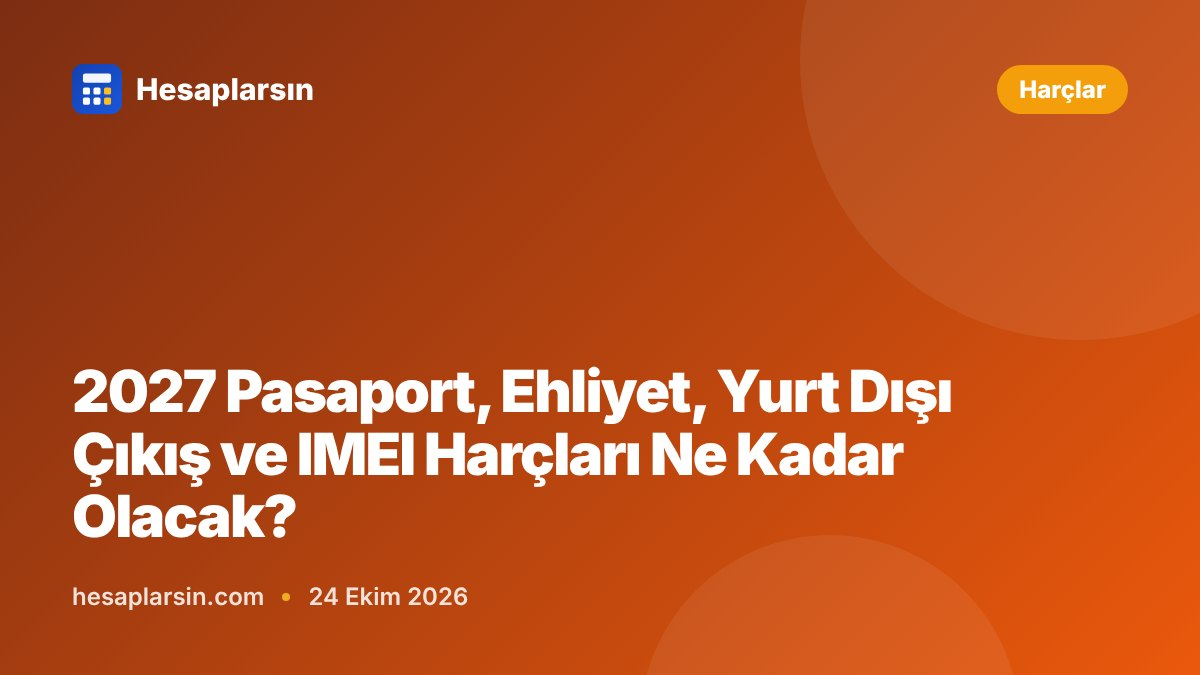
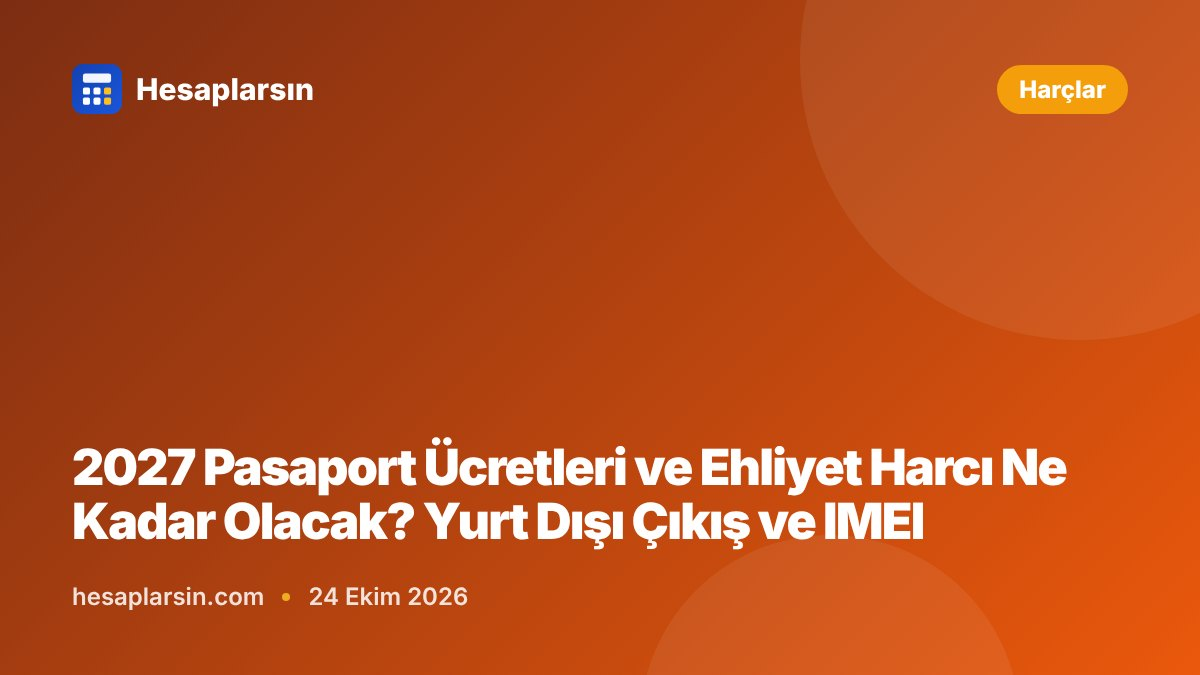
Pasaport 2027 başlık/açıklama CTR odaklı; asgari ödeme: borç tablosu, banka bölümü, 2 SSS, BSMV örnek düzeltmesi
Claude-Session: https://claude.ai/code/session_014PFzT8PKqmvZPFyis9sZvQ

Changed region(s): [[0.0617, 0.5289, 0.8942, 0.8089]]

diff --git a/kredi-karti-asgari-odeme-hesaplama.html b/kredi-karti-asgari-odeme-hesaplama.html
@@ -3,14 +3,14 @@
 <head>
   <meta charset="UTF-8" />
   <meta name="viewport" content="width=device-width, initial-scale=1.0, maximum-scale=5.0" />
-  <title>Kredi Kartı Asgari Ödeme Hesaplama 2026 | Hesaplarsın</title>
-  <meta name="description" content="Dönem borcunuzun asgari ödeme tutarını, akdi ve gecikme faizini hesaplayın. TCMB güncel azami oranları ve borç bitirme süresi." />
+  <title>Kredi Kartı Asgari Ödeme Hesaplama 2026 – Asgari Borç Tutarı | Hesaplarsın</title>
+  <meta name="description" content="Asgari ödeme hesaplama: limiti 100.000 TL’ye kadar kartlarda borcun %20’si, üzerinde %40’ı. 10.000 TL borçta asgari 2.000 TL. Faiz ve borç bitirme süresi." />
   <meta name="keywords" content="kredi kartı asgari ödeme hesaplama 2026, kredi kartı asgari ödeme, kredi kartı faiz hesaplama, kredi kartı gecikme faizi hesaplama, asgari ödeme tutarı hesaplama, kredi kartı akdi faiz, BDDK asgari ödeme oranı 2026, kredi kartı borç hesaplama, minimum ödeme hesaplama" />
   <link rel="canonical" href="https://hesaplarsin.com/kredi-karti-asgari-odeme-hesaplama.html" />
   <meta name="robots" content="index, follow, max-image-preview:large, max-snippet:-1" />
   <meta name="author" content="Hesaplarsın" />
-  <meta property="og:title" content="Kredi Kartı Asgari Ödeme Hesaplama 2026" />
-  <meta property="og:description" content="Dönem borcunuzun asgari ödeme tutarını, akdi ve gecikme faizini hesaplayın. TCMB güncel azami oranları ve borç bitirme süresi." />
+  <meta property="og:title" content="Kredi Kartı Asgari Ödeme Hesaplama 2026 – Asgari Borç Tutarı" />
+  <meta property="og:description" content="Asgari ödeme hesaplama: limiti 100.000 TL’ye kadar kartlarda borcun %20’si, üzerinde %40’ı. 10.000 TL borçta asgari 2.000 TL. Faiz ve borç bitirme süresi." />
   <meta property="og:url" content="https://hesaplarsin.com/kredi-karti-asgari-odeme-hesaplama.html" />
   <meta property="og:type" content="website" />
   <meta property="og:locale" content="tr_TR" />
@@ -20,7 +20,7 @@
   <script>window.dataLayer=window.dataLayer||[];function gtag(){dataLayer.push(arguments);}gtag('consent','default',{ad_storage:'denied',ad_user_data:'denied',ad_personalization:'denied',analytics_storage:'denied',region:['AT','BE','BG','HR','CY','CZ','DK','EE','FI','FR','DE','GR','HU','IS','IE','IT','LV','LI','LT','LU','MT','NL','NO','PL','PT','RO','SK','SI','ES','SE','GB','CH'],wait_for_update:500});gtag('consent','default',{ad_storage:'granted',ad_user_data:'granted',ad_personalization:'granted',analytics_storage:'granted'});gtag('js',new Date());gtag('config','G-FT582GF9N9');</script>
 
   <script type="application/ld+json">{"@context": "https://schema.org", "@type": "WebApplication", "name": "Kredi Kartı Asgari Ödeme Hesaplama 2026", "url": "https://hesaplarsin.com/kredi-karti-asgari-odeme-hesaplama.html", "description": "BDDK 2026 güncel oranlarıyla kredi kartı asgari ödeme tutarı, akdi faiz, gecikme faizi ve BSMV/KKDF vergi hesaplama aracı.", "applicationCategory": "FinanceApplication", "operatingSystem": "All", "inLanguage": "tr", "offers": {"@type": "Offer", "price": "0", "priceCurrency": "TRY"}, "publisher": {"@type": "Organization", "name": "Hesaplarsın", "url": "https://hesaplarsin.com"}, "dateModified": "2026-10-24", "author": {"@type": "Person", "name": "Duran Gönülalan", "url": "https://hesaplarsin.com/hakkimizda.html"}}</script>
-  <script type="application/ld+json">{"@context": "https://schema.org", "@type": "FAQPage", "mainEntity": [{"@type": "Question", "name": "Kredi kartı borcumu yapılandırabilir miyim?", "acceptedAnswer": {"@type": "Answer", "text": "Evet. Ödeme güçlüğü çeken kart kullanıcıları bankayla iletişime geçerek 48 aya varan yapılandırma imkanlarını değerlendirebilir. BDDK desteğiyle hayata geçirilen kredi kartı yapılandırması, birikmiş borcu daha düşük faiz oranıyla taksitlere böler. Yeniden yapılandırma kredi notunu geçici olarak etkileyebilir ancak uzun vadede daha sürdürülebilir bir ödeme planı sunar."}}, {"@type": "Question", "name": "BSMV ve KKDF nedir? Faizin neresinden kesilir?", "acceptedAnswer": {"@type": "Answer", "text": "Bireysel kredi kartı faizlerine BSMV (Banka ve Sigorta Muameleleri Vergisi) %15, KKDF (Kaynak Kullanımı Destekleme Fonu) %15 oranında uygulanır; yani her 100 TL faize 30 TL vergi eklenir. Bu vergiler faiz tutarının üzerine eklenerek bankalar tarafından devlet adına tahsil edilir. Örneğin 1.000 TL faize 60 TL vergi eklenerek 1.060 TL toplam maliyet oluşur. Hem akdi faizde hem gecikme faizinde bu vergiler uygulanır."}}, {"@type": "Question", "name": "Kredi kartı ekstresinin son ödeme tarihi ne zaman?", "acceptedAnswer": {"@type": "Answer", "text": "Son ödeme tarihi, kart kesim tarihinden genellikle 10-12 gün sonrasıdır. Bankanın belirlediği kesim tarihinde bir önceki dönemin tüm harcamaları toplanarak ekstre oluşturulur ve son ödeme tarihi bildirilir. Bu tarihe kadar en az asgari ödeme tutarı yapılmalıdır."}}, {"@type": "Question", "name": "Kredi kartı borcumu tam ödemek yerine neden asgari ödeme yapayım?", "acceptedAnswer": {"@type": "Answer", "text": "Asgari ödemenin tek avantajı nakit sıkışıklığı döneminde minimum ödemeyle kart kullanımına devam etmenizi sağlamasıdır. Ancak uzun vadede her zaman tam ödeme tercih edilmelidir. Asgari ödeme yapıldığında kalan borca aylık %3,25–4,25 faiz ve bunun üzerine %30 vergi işler; bu da vergiler dahil yıllık yaklaşık %64–91 bileşik maliyete karşılık gelir."}}, {"@type": "Question", "name": "Kredi kartı asgari ödeme nasıl hesaplanır? 2026 oranları nedir?", "acceptedAnswer": {"@type": "Answer", "text": "2026 yılında BDDK kararıyla kredi kartı asgari ödeme oranları kart limitine göre belirlenmektedir: 1 Ekim 2026’dan itibaren limiti 100.000 TL ve altındaki kartlarda dönem borcunun %20’si, limiti 100.000 TL üzerindeki kartlarda ise %40’ı asgari ödeme tutarıdır. Örnek: 10.000 TL dönem borcu ve 30.000 TL limiti olan bir kart için asgari ödeme = 10.000 × 0,20 = 2.000 TL'dir."}}, {"@type": "Question", "name": "Kredi kartı asgari ödeme yaparsam faiz işler mi?", "acceptedAnswer": {"@type": "Answer", "text": "Evet. Asgari ödemeyi yaptığınızda kart kullanımına devam edebilirsiniz ve kredi notunuz olumsuz etkilenmez. Ancak kalan borcunuza akdi faiz işlemeye devam eder. 2026 TCMB güncel akdi faiz oranları: 30.000 TL altı için aylık %3,25, 30.000-180.000 TL arası için %3,75, 180.000 TL üzeri için %4,25'tir. Bu faizin üzerine %15 BSMV ve %15 KKDF eklenir."}}, {"@type": "Question", "name": "Kredi kartı asgari ödemeyi yapmazsam ne olur?", "acceptedAnswer": {"@type": "Answer", "text": "Asgari ödemeyi yapmazsanız: 1) Gecikme faizi işler (2026: 30K altı %3,55, 30K-180K arası %4,05, 180K+ için %4,55 aylık), 2) Kredi notunuz düşer ve KKB/Findeks sicilinde olumsuz kayıt oluşur, 3) 1 yılda 3 kez gecikme olursa kartın nakit kullanımı kapatılır, 4) Üst üste 3 kez ödeme yapılmazsa kart tamamen kapatılır."}}, {"@type": "Question", "name": "Sadece asgari ödeme yaparak borcumu ne zaman kapatırım?", "acceptedAnswer": {"@type": "Answer", "text": "Yalnızca asgari ödeme yapıldığında borç çok yavaş azalır ve faiz birikimi nedeniyle yıllar sürebilir. Örneğin 20.000 TL borcu aylık %3,75 akdi faizle sadece asgari ödemeyle kapatmak, harcama yapılmasa bile borcun 100 TL’nin altına inmesi yaklaşık 31 ay sürer ve toplam yaklaşık 24.800 TL ödenir."}}, {"@type": "Question", "name": "Akdi faiz ile gecikme faizi arasındaki fark nedir?", "acceptedAnswer": {"@type": "Answer", "text": "Akdi faiz: Asgari ödemeyi yaptığınızda kalan borca uygulanan standart faizdir. Gecikme faizi: Asgari ödemeyi bile yapmadığınızda uygulanan daha yüksek ceza faizdir. 2026'da gecikme faizi, akdi faizden yaklaşık 0,30 puan daha yüksektir. Her iki faize de %15 BSMV + %15 KKDF eklenir."}}]}</script>
+  <script type="application/ld+json">{"@context": "https://schema.org", "@type": "FAQPage", "mainEntity": [{"@type": "Question", "name": "Akbank, Garanti veya İş Bankası asgari ödeme oranı kaç?", "acceptedAnswer": {"@type": "Answer", "text": "Asgari ödeme oranı BDDK tarafından tüm bankalar için aynı belirlenir. Hangi bankanın kartı olursa olsun, limiti 100.000 TL ve altındaki kartlarda dönem borcunun %20’si, limiti 100.000 TL’nin üzerindeki kartlarda %40’ı asgari ödeme tutarıdır."}}, {"@type": "Question", "name": "6.000 TL borcun asgarisi ne kadar?", "acceptedAnswer": {"@type": "Answer", "text": "Kart limitiniz 100.000 TL ve altındaysa 6.000 TL dönem borcunun asgari ödemesi 6.000 × 0,20 = 1.200 TL’dir. Limitiniz 100.000 TL’nin üzerindeyse asgari ödeme 6.000 × 0,40 = 2.400 TL olur."}}, {"@type": "Question", "name": "Kredi kartı borcumu yapılandırabilir miyim?", "acceptedAnswer": {"@type": "Answer", "text": "Evet. Ödeme güçlüğü çeken kart kullanıcıları bankayla iletişime geçerek 48 aya varan yapılandırma imkanlarını değerlendirebilir. BDDK desteğiyle hayata geçirilen kredi kartı yapılandırması, birikmiş borcu daha düşük faiz oranıyla taksitlere böler. Yeniden yapılandırma kredi notunu geçici olarak etkileyebilir ancak uzun vadede daha sürdürülebilir bir ödeme planı sunar."}}, {"@type": "Question", "name": "BSMV ve KKDF nedir? Faizin neresinden kesilir?", "acceptedAnswer": {"@type": "Answer", "text": "Bireysel kredi kartı faizlerine BSMV (Banka ve Sigorta Muameleleri Vergisi) %15, KKDF (Kaynak Kullanımı Destekleme Fonu) %15 oranında uygulanır; yani her 100 TL faize 30 TL vergi eklenir. Bu vergiler faiz tutarının üzerine eklenerek bankalar tarafından devlet adına tahsil edilir. Örneğin 1.000 TL faize 300 TL vergi eklenerek 1.300 TL toplam maliyet oluşur. Hem akdi faizde hem gecikme faizinde bu vergiler uygulanır."}}, {"@type": "Question", "name": "Kredi kartı ekstresinin son ödeme tarihi ne zaman?", "acceptedAnswer": {"@type": "Answer", "text": "Son ödeme tarihi, kart kesim tarihinden genellikle 10-12 gün sonrasıdır. Bankanın belirlediği kesim tarihinde bir önceki dönemin tüm harcamaları toplanarak ekstre oluşturulur ve son ödeme tarihi bildirilir. Bu tarihe kadar en az asgari ödeme tutarı yapılmalıdır."}}, {"@type": "Question", "name": "Kredi kartı borcumu tam ödemek yerine neden asgari ödeme yapayım?", "acceptedAnswer": {"@type": "Answer", "text": "Asgari ödemenin tek avantajı nakit sıkışıklığı döneminde minimum ödemeyle kart kullanımına devam etmenizi sağlamasıdır. Ancak uzun vadede her zaman tam ödeme tercih edilmelidir. Asgari ödeme yapıldığında kalan borca aylık %3,25–4,25 faiz ve bunun üzerine %30 vergi işler; bu da vergiler dahil yıllık yaklaşık %64–91 bileşik maliyete karşılık gelir."}}, {"@type": "Question", "name": "Kredi kartı asgari ödeme nasıl hesaplanır? 2026 oranları nedir?", "acceptedAnswer": {"@type": "Answer", "text": "2026 yılında BDDK kararıyla kredi kartı asgari ödeme oranları kart limitine göre belirlenmektedir: 1 Ekim 2026’dan itibaren limiti 100.000 TL ve altındaki kartlarda dönem borcunun %20’si, limiti 100.000 TL üzerindeki kartlarda ise %40’ı asgari ödeme tutarıdır. Örnek: 10.000 TL dönem borcu ve 30.000 TL limiti olan bir kart için asgari ödeme = 10.000 × 0,20 = 2.000 TL'dir."}}, {"@type": "Question", "name": "Kredi kartı asgari ödeme yaparsam faiz işler mi?", "acceptedAnswer": {"@type": "Answer", "text": "Evet. Asgari ödemeyi yaptığınızda kart kullanımına devam edebilirsiniz ve kredi notunuz olumsuz etkilenmez. Ancak kalan borcunuza akdi faiz işlemeye devam eder. 2026 TCMB güncel akdi faiz oranları: 30.000 TL altı için aylık %3,25, 30.000-180.000 TL arası için %3,75, 180.000 TL üzeri için %4,25'tir. Bu faizin üzerine %15 BSMV ve %15 KKDF eklenir."}}, {"@type": "Question", "name": "Kredi kartı asgari ödemeyi yapmazsam ne olur?", "acceptedAnswer": {"@type": "Answer", "text": "Asgari ödemeyi yapmazsanız: 1) Gecikme faizi işler (2026: 30K altı %3,55, 30K-180K arası %4,05, 180K+ için %4,55 aylık), 2) Kredi notunuz düşer ve KKB/Findeks sicilinde olumsuz kayıt oluşur, 3) 1 yılda 3 kez gecikme olursa kartın nakit kullanımı kapatılır, 4) Üst üste 3 kez ödeme yapılmazsa kart tamamen kapatılır."}}, {"@type": "Question", "name": "Sadece asgari ödeme yaparak borcumu ne zaman kapatırım?", "acceptedAnswer": {"@type": "Answer", "text": "Yalnızca asgari ödeme yapıldığında borç çok yavaş azalır ve faiz birikimi nedeniyle yıllar sürebilir. Örneğin 20.000 TL borcu aylık %3,75 akdi faizle sadece asgari ödemeyle kapatmak, harcama yapılmasa bile borcun 100 TL’nin altına inmesi yaklaşık 31 ay sürer ve toplam yaklaşık 24.800 TL ödenir."}}, {"@type": "Question", "name": "Akdi faiz ile gecikme faizi arasındaki fark nedir?", "acceptedAnswer": {"@type": "Answer", "text": "Akdi faiz: Asgari ödemeyi yaptığınızda kalan borca uygulanan standart faizdir. Gecikme faizi: Asgari ödemeyi bile yapmadığınızda uygulanan daha yüksek ceza faizdir. 2026'da gecikme faizi, akdi faizden yaklaşık 0,30 puan daha yüksektir. Her iki faize de %15 BSMV + %15 KKDF eklenir."}}]}</script>
   <script type="application/ld+json">
   {"@context":"https://schema.org","@type":"BreadcrumbList","itemListElement":[{"@type":"ListItem","position":1,"name":"Ana Sayfa","item":"https://hesaplarsin.com"},{"@type":"ListItem","position":2,"name":"Finans","item":"https://hesaplarsin.com/#finans"},{"@type":"ListItem","position":3,"name":"Kredi Kartı Asgari Ödeme","item":"https://hesaplarsin.com/kredi-karti-asgari-odeme-hesaplama.html"}]}
   </script>
@@ -588,6 +588,19 @@ footer.hz-foot a:hover{color:#fff!important}
     </table>
   </div>
   
+  <h2>Asgari Borç Hesaplama Tablosu</h2>
+  <p>Asgari ödeme tutarı dönem borcunun kart limitine göre %20’si ya da %40’ıdır. Aşağıdaki tabloda sık sorulan borç tutarlarının asgari ödemesini görebilirsiniz. Örneğin limiti 100.000 TL’nin altındaki bir kartta 6.000 TL borcun asgarisi <strong>1.200 TL</strong>, 25.000 TL borcun asgarisi <strong>5.000 TL</strong>’dir.</p>
+  <div class="tablo-wrap">
+    <table class="veri-tablo" aria-label="Borç tutarına göre asgari ödeme tablosu">
+      <thead><tr><th>Dönem borcu</th><th>Asgari ödeme (limit ≤ 100.000 TL, %20)</th><th>Asgari ödeme (limit &gt; 100.000 TL, %40)</th></tr></thead>
+      <tbody><tr><td>5.000 TL</td><td>1.000 TL</td><td>2.000 TL</td></tr><tr><td>6.000 TL</td><td>1.200 TL</td><td>2.400 TL</td></tr><tr><td>10.000 TL</td><td>2.000 TL</td><td>4.000 TL</td></tr><tr><td>15.000 TL</td><td>3.000 TL</td><td>6.000 TL</td></tr><tr><td>20.000 TL</td><td>4.000 TL</td><td>8.000 TL</td></tr><tr><td>25.000 TL</td><td>5.000 TL</td><td>10.000 TL</td></tr><tr><td>30.000 TL</td><td>6.000 TL</td><td>12.000 TL</td></tr><tr><td>50.000 TL</td><td>10.000 TL</td><td>20.000 TL</td></tr><tr><td>75.000 TL</td><td>15.000 TL</td><td>30.000 TL</td></tr><tr><td>100.000 TL</td><td>20.000 TL</td><td>40.000 TL</td></tr></tbody>
+    </table>
+  </div>
+
+  <h2>Bankalara Göre Asgari Ödeme Oranı (Akbank, Garanti, İş Bankası…)</h2>
+  <p>Asgari ödeme oranları BDDK tarafından <strong>tüm bankalar için aynı</strong> belirlenir. Akbank, Garanti BBVA, İş Bankası, Yapı Kredi, Ziraat, Halkbank, VakıfBank, QNB veya Enpara kartınız olsun, limiti 100.000 TL ve altındaki kartlarda asgari ödeme dönem borcunun %20’si, limiti 100.000 TL’nin üzerindeki kartlarda %40’ıdır. Bankanın ekstrede gösterdiği asgari tutar, bu oranın dönem borcuna uygulanmasıyla bulunur; varsa gecikmiş asgari tutarlar da eklenir.</p>
+  <p>Akdi ve gecikme faizinde ise TCMB’nin belirlediği oranlar <strong>azami</strong> oranlardır: bankalar bu oranların üzerinde faiz uygulayamaz, daha düşük oran uygulayabilir. Kendi kartınıza uygulanan oranı ekstrenizde veya bankanızın ücret ve faiz tablosunda görebilirsiniz.</p>
+
   <h2>Sadece Asgari Ödeme Yapmanın Gerçek Maliyeti</h2>
   <p>
     Birçok kart kullanıcısı asgari ödemenin "güvenli" bir seçenek olduğunu düşünür. Ancak yalnızca asgari ödeme yapıldığında borç çok yavaş azalır ve faiz birikimi nedeniyle toplam ödenen tutar borcun çok üzerinde olabilir.
@@ -602,13 +615,23 @@ footer.hz-foot a:hover{color:#fff!important}
   <h2>Sık Sorulan Sorular</h2>
 
   <div class="faq-item">
+    <button class="faq-q" onclick="toggleFaq(this)" aria-expanded="false">Akbank, Garanti veya İş Bankası asgari ödeme oranı kaç? <span class="ico">+</span></button>
+    <div class="faq-a">Asgari ödeme oranı BDDK tarafından tüm bankalar için aynı belirlenir. Hangi bankanın kartı olursa olsun, limiti 100.000 TL ve altındaki kartlarda dönem borcunun %20’si, limiti 100.000 TL’nin üzerindeki kartlarda %40’ı asgari ödeme tutarıdır.</div>
+  </div>
+
+  <div class="faq-item">
+    <button class="faq-q" onclick="toggleFaq(this)" aria-expanded="false">6.000 TL borcun asgarisi ne kadar? <span class="ico">+</span></button>
+    <div class="faq-a">Kart limitiniz 100.000 TL ve altındaysa 6.000 TL dönem borcunun asgari ödemesi 6.000 × 0,20 = 1.200 TL’dir. Limitiniz 100.000 TL’nin üzerindeyse asgari ödeme 6.000 × 0,40 = 2.400 TL olur.</div>
+  </div>
+
+  <div class="faq-item">
     <button class="faq-q" onclick="toggleFaq(this)" aria-expanded="false">Kredi kartı borcumu yapılandırabilir miyim? <span class="ico">+</span></button>
     <div class="faq-a">Evet. Ödeme güçlüğü çeken kart kullanıcıları bankayla iletişime geçerek 48 aya varan yapılandırma imkanlarını değerlendirebilir. BDDK desteğiyle hayata geçirilen kredi kartı yapılandırması, birikmiş borcu daha düşük faiz oranıyla taksitlere böler. Yeniden yapılandırma kredi notunu geçici olarak etkileyebilir ancak uzun vadede daha sürdürülebilir bir ödeme planı sunar.</div>
   </div>
 
   <div class="faq-item">
     <button class="faq-q" onclick="toggleFaq(this)" aria-expanded="false">BSMV ve KKDF nedir? Faizin neresinden kesilir? <span class="ico">+</span></button>
-    <div class="faq-a">Bireysel kredi kartı faizlerine BSMV (Banka ve Sigorta Muameleleri Vergisi) %15, KKDF (Kaynak Kullanımı Destekleme Fonu) %15 oranında uygulanır; yani her 100 TL faize 30 TL vergi eklenir. Bu vergiler faiz tutarının üzerine eklenerek bankalar tarafından devlet adına tahsil edilir. Örneğin 1.000 TL faize 60 TL vergi eklenerek 1.060 TL toplam maliyet oluşur. Hem akdi faizde hem gecikme faizinde bu vergiler uygulanır.</div>
+    <div class="faq-a">Bireysel kredi kartı faizlerine BSMV (Banka ve Sigorta Muameleleri Vergisi) %15, KKDF (Kaynak Kullanımı Destekleme Fonu) %15 oranında uygulanır; yani her 100 TL faize 30 TL vergi eklenir. Bu vergiler faiz tutarının üzerine eklenerek bankalar tarafından devlet adına tahsil edilir. Örneğin 1.000 TL faize 300 TL vergi eklenerek 1.300 TL toplam maliyet oluşur. Hem akdi faizde hem gecikme faizinde bu vergiler uygulanır.</div>
   </div>
 
   <div class="faq-item">

diff --git a/blog/pasaport-ehliyet-harci-2027.html b/blog/pasaport-ehliyet-harci-2027.html
@@ -3,21 +3,21 @@
 <head>
   <meta charset="UTF-8" />
   <meta name="viewport" content="width=device-width, initial-scale=1.0, maximum-scale=5.0" />
-  <title>2027 Pasaport ve Ehliyet Harcı Ne Kadar Olacak? Yurt Dışı Çıkış ve IMEI | Hesaplarsın</title>
-  <meta name="description" content="2026’da 10 yıllık pasaport 14.761,40 TL, B sınıfı ehliyet 8.869,60 TL. 2027 pasaport, ehliyet, yurt dışı çıkış harcı ve IMEI kayıt ücreti tahminleri tablolarla." />
+  <title>2027 Pasaport Ücretleri: 10 Yıllık Pasaport Ne Kadar Olacak? | Hesaplarsın</title>
+  <meta name="description" content="2027 pasaport ücretleri tahmini: 10 yıllık pasaport 17.443 TL – 18.490 TL, 1 yıllık 6.274 TL – 6.595 TL. 2026 tarifesi, ehliyet ve yurt dışı çıkış harcı tablolarla." />
   <meta name="keywords" content="2027 pasaport harcı, 2027 ehliyet harcı, pasaport ücreti 2027, ehliyet ücreti 2027, yurt dışı çıkış harcı 2027, imei kayıt ücreti 2027" />
   <link rel="canonical" href="https://hesaplarsin.com/blog/pasaport-ehliyet-harci-2027.html" />
   <link rel="sitemap" type="application/xml" href="https://hesaplarsin.com/sitemap.xml" />
   <meta name="robots" content="index, follow, max-image-preview:large, max-snippet:-1" />
-  <meta property="og:title" content="2027 Pasaport ve Ehliyet Harcı Ne Kadar Olacak? Yurt Dışı Çıkış ve IMEI" />
-  <meta property="og:description" content="2026’da 10 yıllık pasaport 14.761,40 TL, B sınıfı ehliyet 8.869,60 TL. 2027 pasaport, ehliyet, yurt dışı çıkış harcı ve IMEI kayıt ücreti tahminleri tablolarla." />
+  <meta property="og:title" content="2027 Pasaport Ücretleri: 10 Yıllık Pasaport Ne Kadar Olacak?" />
+  <meta property="og:description" content="2027 pasaport ücretleri tahmini: 10 yıllık pasaport 17.443 TL – 18.490 TL, 1 yıllık 6.274 TL – 6.595 TL. 2026 tarifesi, ehliyet ve yurt dışı çıkış harcı tablolarla." />
   <meta property="og:url" content="https://hesaplarsin.com/blog/pasaport-ehliyet-harci-2027.html" />
   <meta property="og:type" content="article" />
   <meta property="og:locale" content="tr_TR" />
   <meta property="article:published_time" content="2026-10-24" />
   <script async src="https://www.googletagmanager.com/gtag/js?id=G-FT582GF9N9"></script>
   <script>window.dataLayer=window.dataLayer||[];function gtag(){dataLayer.push(arguments);}gtag('consent','default',{ad_storage:'denied',ad_user_data:'denied',ad_personalization:'denied',analytics_storage:'denied',region:['AT','BE','BG','HR','CY','CZ','DK','EE','FI','FR','DE','GR','HU','IS','IE','IT','LV','LI','LT','LU','MT','NL','NO','PL','PT','RO','SK','SI','ES','SE','GB','CH'],wait_for_update:500});gtag('consent','default',{ad_storage:'granted',ad_user_data:'granted',ad_personalization:'granted',analytics_storage:'granted'});gtag('js',new Date());gtag('config','G-FT582GF9N9');</script>
-  <script type="application/ld+json">{"@context": "https://schema.org", "@type": "Article", "headline": "2027 Pasaport, Ehliyet, Yurt Dışı Çıkış ve IMEI Harçları Ne Kadar Olacak?", "description": "2026’da 10 yıllık pasaport 14.761,40 TL, B sınıfı ehliyet 8.869,60 TL. 2027 pasaport, ehliyet, yurt dışı çıkış harcı ve IMEI kayıt ücreti tahminleri tablolarla.", "datePublished": "2026-10-24", "dateModified": "2026-10-24", "inLanguage": "tr", "mainEntityOfPage": "https://hesaplarsin.com/blog/pasaport-ehliyet-harci-2027.html", "image": ["https://hesaplarsin.com/assets/blog/pasaport-ehliyet-harci-2027.jpg"], "author": {"@type": "Person", "name": "Duran Gönülalan", "jobTitle": "Hesaplarsın Kurucusu", "url": "https://hesaplarsin.com/hakkimizda.html#kurucu"}, "publisher": {"@type": "Organization", "name": "Hesaplarsın", "url": "https://hesaplarsin.com", "logo": {"@type": "ImageObject", "url": "https://hesaplarsin.com/assets/icon-512.png"}}}</script>
+  <script type="application/ld+json">{"@context": "https://schema.org", "@type": "Article", "headline": "2027 Pasaport Ücretleri ve Ehliyet Harcı Ne Kadar Olacak? Yurt Dışı Çıkış ve IMEI", "description": "2027 pasaport ücretleri tahmini: 10 yıllık pasaport 17.443 TL – 18.490 TL, 1 yıllık 6.274 TL – 6.595 TL. 2026 tarifesi, ehliyet ve yurt dışı çıkış harcı tablolarla.", "datePublished": "2026-10-24", "dateModified": "2026-10-24", "inLanguage": "tr", "mainEntityOfPage": "https://hesaplarsin.com/blog/pasaport-ehliyet-harci-2027.html", "image": ["https://hesaplarsin.com/assets/blog/pasaport-ehliyet-harci-2027.jpg"], "author": {"@type": "Person", "name": "Duran Gönülalan", "jobTitle": "Hesaplarsın Kurucusu", "url": "https://hesaplarsin.com/hakkimizda.html#kurucu"}, "publisher": {"@type": "Organization", "name": "Hesaplarsın", "url": "https://hesaplarsin.com", "logo": {"@type": "ImageObject", "url": "https://hesaplarsin.com/assets/icon-512.png"}}}</script>
   <script type="application/ld+json">{"@context": "https://schema.org", "@type": "FAQPage", "mainEntity": [{"@type": "Question", "name": "2026’da 10 yıllık pasaport ne kadar?", "acceptedAnswer": {"@type": "Answer", "text": "Harç 13.410,40 TL, defter bedeli 1.351,00 TL olmak üzere toplam 14.761,40 TL."}}, {"@type": "Question", "name": "2027’de pasaport ne kadar olacak?", "acceptedAnswer": {"@type": "Answer", "text": "Harçlar %20 artırılırsa 10 yıllık pasaportun toplam maliyeti yaklaşık 17.443 TL, tam oranla (%27,81) yaklaşık 18.490 TL olur. Kesin tutar Aralık sonunda belli olur."}}, {"@type": "Question", "name": "2026’da B sınıfı ehliyet ücreti ne kadar?", "acceptedAnswer": {"@type": "Answer", "text": "Harç 6.754,60 TL, kart bedeli 1.690 TL ve vakıf payı 425 TL ile toplam 8.869,60 TL. Kurs ve sınav ücretleri hariçtir."}}, {"@type": "Question", "name": "2027’de ehliyet harcı ne kadar olacak?", "acceptedAnswer": {"@type": "Answer", "text": "B sınıfı ehliyet harcının %20 artışla yaklaşık 8.105 TL, tam oranla yaklaşık 8.633 TL olması bekleniyor."}}, {"@type": "Question", "name": "2027 IMEI kayıt ücreti ne kadar olacak?", "acceptedAnswer": {"@type": "Answer", "text": "2026’da 54.258 TL olan IMEI kayıt harcının 2027’de 65.109 TL ile 69.347 TL arasında olması bekleniyor."}}, {"@type": "Question", "name": "Yurt dışı çıkış harcı 2027’de ne kadar?", "acceptedAnswer": {"@type": "Answer", "text": "2026’da 1.250 TL. Yeniden değerleme oranına paralel bir artışta 2027’de yaklaşık 1.500 TL – 1.597 TL aralığında olur."}}]}</script>
   <script type="application/ld+json">{"@context": "https://schema.org", "@type": "BreadcrumbList", "itemListElement": [{"@type": "ListItem", "position": 1, "name": "Ana Sayfa", "item": "https://hesaplarsin.com"}, {"@type": "ListItem", "position": 2, "name": "Blog", "item": "https://hesaplarsin.com/blog.html"}, {"@type": "ListItem", "position": 3, "name": "2027 Pasaport ve Ehliyet Harçları", "item": "https://hesaplarsin.com/blog/pasaport-ehliyet-harci-2027.html"}]}</script>
   <style>
@@ -156,14 +156,14 @@ footer.hz-foot a:hover{color:#fff!important}
   <span>2027 Pasaport ve Ehliyet Harçları</span>
 </nav>
 <article class="article-wrap">
-  <div class="article-hero"><img src="/assets/blog/pasaport-ehliyet-harci-2027.jpg" width="1200" height="675" alt="2027 Pasaport, Ehliyet, Yurt Dışı Çıkış ve IMEI Harçları Ne Kadar Olacak?" fetchpriority="high" decoding="async" style="width:100%;height:auto;display:block;border-radius:16px"></div>
+  <div class="article-hero"><img src="/assets/blog/pasaport-ehliyet-harci-2027.jpg" width="1200" height="675" alt="2027 Pasaport Ücretleri ve Ehliyet Harcı Ne Kadar Olacak? Yurt Dışı Çıkış ve IMEI" fetchpriority="high" decoding="async" style="width:100%;height:auto;display:block;border-radius:16px"></div>
   <div class="article-meta">
     <span class="meta-badge meta-badge-hot">Vergi</span>
     <span class="meta-badge">Harçlar</span>
     <span>24 Ekim 2026</span>
     <span>4 dk okuma</span>
   </div>
-  <h1>2027 Pasaport, Ehliyet, Yurt Dışı Çıkış ve IMEI Harçları Ne Kadar Olacak?</h1>
+  <h1>2027 Pasaport Ücretleri ve Ehliyet Harcı Ne Kadar Olacak? Yurt Dışı Çıkış ve IMEI</h1>
 
   <p class="lead">Pasaport, ehliyet, yurt dışı çıkış ve yurt dışından getirilen telefonların IMEI kayıt harçları her yıl yeniden değerleme oranına bağlı olarak artırılır. 2027 tutarları, 3 Kasım 2026’da açıklanacak oran ve Aralık sonunda yayımlanacak Cumhurbaşkanı kararıyla netleşecek. Bu yazıda <strong>2026’da ödenen tutarları</strong> ve iki senaryoda <strong>2027 tahminlerini</strong> bulacaksınız.</p>
 

diff --git a/ekonomi-takvimi.html b/ekonomi-takvimi.html
@@ -226,7 +226,7 @@ footer.hz-foot a:hover{color:#fff!important}
 <p><b>Kısa cevap:</b> Sıradaki enflasyon verisi (<b>Ekim 2026</b>) <b>3 Kasım 2026 Salı</b> saat 10:00’da TÜİK tarafından açıklanacak; aynı gün o ayın kira artış oranı da belli olur. Memur ve emekli zammını belirleyen Aralık 2026 enflasyonu <b>4 Ocak 2027</b>’de, 2027 asgari ücreti ise Aralık 2026’nın son günlerinde açıklanacak.</p>
 
 <h2 id="b-yakin">Önümüzdeki 45 günde açıklanacaklar</h2>
-<div class="table-wrap"><table><thead><tr><th>Tarih</th><th>Ne oluyor?</th><th>Ayrıntı</th></tr></thead><tbody><tr><td>30 Ekim 2026 Cuma</td><td><a href="/kpss-puan-hesaplama.html">KPSS Önlisans sonuçları</a></td><td>ÖSYM 4 Ekim sınavının sonuçlarını açıklar (P93)</td></tr><tr><td>3 Kasım 2026 Salı</td><td><a href="/kira-artis-hesaplama.html">Ekim 2026 enflasyonu</a></td><td>TÜİK, saat 10:00 · Belirler: kira artış oranı, yeniden değerleme oranı (Yİ-ÜFE)</td></tr><tr><td>12 Kasım 2026 Perşembe</td><td><a href="/enflasyon-hesaplama.html">TCMB Enflasyon Raporu</a></td><td>Merkez Bankası enflasyon tahminlerini günceller</td></tr><tr><td>19 Kasım 2026 Perşembe</td><td><a href="/kpss-puan-hesaplama.html">KPSS Ortaöğretim sonuçları</a></td><td>ÖSYM 25 Ekim sınavının sonuçlarını açıklar (P94)</td></tr><tr><td>29 Kasım 2026 Pazar</td><td><a href="/ales-puan-hesaplama.html">ALES/3 sınavı</a></td><td>ÖSYM ALES/3 oturumu (sonuçlar 17 Aralık)</td></tr><tr><td>30 Kasım 2026 Pazartesi</td><td><a href="/blog/yeniden-degerleme-orani-2026.html">Emlak vergisi 2. taksit son gün</a></td><td>2026 emlak vergisinin ikinci taksiti</td></tr><tr><td>3 Aralık 2026 Perşembe</td><td><a href="/kira-artis-hesaplama.html">Kasım 2026 enflasyonu</a></td><td>TÜİK, saat 10:00 · Belirler: kira artış oranı</td></tr></tbody></table></div>
+<div class="table-wrap"><table><thead><tr><th>Tarih</th><th>Ne oluyor?</th><th>Ayrıntı</th></tr></thead><tbody><tr><td>30 Ekim 2026 Cuma</td><td><a href="/kpss-puan-hesaplama.html">KPSS Önlisans sonuçları</a></td><td>ÖSYM 4 Ekim sınavının sonuçlarını açıklar (P93)</td></tr><tr><td>3 Kasım 2026 Salı</td><td><a href="/kira-artis-hesaplama.html">Ekim 2026 enflasyonu</a></td><td>TÜİK, saat 10:00 · Belirler: kira artış oranı, yeniden değerleme oranı (Yİ-ÜFE)</td></tr><tr><td>12 Kasım 2026 Perşembe</td><td><a href="/enflasyon-hesaplama.html">TCMB Enflasyon Raporu</a></td><td>Merkez Bankası enflasyon tahminlerini günceller</td></tr><tr><td>19 Kasım 2026 Perşembe</td><td><a href="/kpss-puan-hesaplama.html">KPSS Ortaöğretim sonuçları</a></td><td>ÖSYM 25 Ekim sınavının sonuçlarını açıklar (P94)</td></tr><tr><td>29 Kasım 2026 Pazar</td><td><a href="/ales-puan-hesaplama.html">ALES/3 sınavı</a></td><td>ÖSYM ALES/3 oturumu (sonuçlar 17 Aralık)</td></tr><tr><td>30 Kasım 2026 Pazartesi</td><td><a href="/blog/yeniden-degerleme-orani-2026.html">Emlak vergisi 2. taksit son gün</a></td><td>2026 emlak vergisinin ikinci taksiti</td></tr><tr><td>3 Aralık 2026 Perşembe</td><td><a href="/kira-artis-hesaplama.html">Kasım 2026 enflasyonu</a></td><td>TÜİK, saat 10:00 · Belirler: kira artış oranı</td></tr><tr><td>10 Aralık 2026 Perşembe</td><td><a href="/mevduat-faizi-hesaplama.html">TCMB faiz kararı (PPK)</a></td><td>Para Politikası Kurulu toplantısı, saat 14:00</td></tr></tbody></table></div>
 
 <h2 id="b-enflasyon">Enflasyon ne zaman açıklanacak? TÜİK 2026–2027 takvimi</h2>
 <p>TÜİK, tüketici fiyat endeksini (TÜFE) her ayın <b>3’ünde saat 10:00</b>’da açıklar; 3’ü hafta sonuna denk gelirse ilk iş gününe kayar. Aynı bültende yer alan “12 aylık ortalama” değişim, o ay yenilenen kira sözleşmelerinin yasal artış sınırıdır.</p>

diff --git a/_gen/ydo_2027.py b/_gen/ydo_2027.py
@@ -147,10 +147,10 @@ rel2 = [('📈', 'Yeniden Değerleme Oranı 2026', '2027’de neler ne kadar art
         ('🚗', 'MTV Hesaplama', '2026 MTV ve 2027 tahmini', f'{B}/mtv-hesaplama.html'),
         ('💱', 'Döviz Çevirici', 'Seyahat öncesi kur hesabı', f'{B}/doviz-cevirici.html')]
 print(make('pasaport-ehliyet-harci-2027',
-     '2027 Pasaport ve Ehliyet Harcı Ne Kadar Olacak? Yurt Dışı Çıkış ve IMEI | Hesaplarsın',
-     f'2026’da 10 yıllık pasaport {t2(P[4][1]+DEF)}, B sınıfı ehliyet {t2(EH[1][1]+DK+VK)}. 2027 pasaport, ehliyet, yurt dışı çıkış harcı ve IMEI kayıt ücreti tahminleri tablolarla.',
+     '2027 Pasaport Ücretleri: 10 Yıllık Pasaport Ne Kadar Olacak? | Hesaplarsın',
+     f'2027 pasaport ücretleri tahmini: 10 yıllık pasaport {t0(fl(P[4][1]*(1+L))+DEF)} – {t0(fl(P[4][1]*(1+T))+DEF)}, 1 yıllık {t0(fl(P[1][1]*(1+L))+DEF)} – {t0(fl(P[1][1]*(1+T))+DEF)}. 2026 tarifesi, ehliyet ve yurt dışı çıkış harcı tablolarla.',
      '2027 pasaport harcı, 2027 ehliyet harcı, pasaport ücreti 2027, ehliyet ücreti 2027, yurt dışı çıkış harcı 2027, imei kayıt ücreti 2027',
-     '2027 Pasaport ve Ehliyet Harçları', '2027 Pasaport, Ehliyet, Yurt Dışı Çıkış ve IMEI Harçları Ne Kadar Olacak?',
+     '2027 Pasaport ve Ehliyet Harçları', '2027 Pasaport Ücretleri ve Ehliyet Harcı Ne Kadar Olacak? Yurt Dışı Çıkış ve IMEI',
      hero('🛂', 'Ocak 2027’de zamlanıyor', '10 YILLIK PASAPORT (2026)', t2(P[4][1] + DEF), 'B SINIFI EHLİYET (2026)', t2(EH[1][1] + DK + VK), '#7c2d12', '#ea580c'),
      ['Vergi', 'Harçlar'], body2, faq2, rel2, date='2026-10-24', date_tr='24 Ekim 2026'))
 
